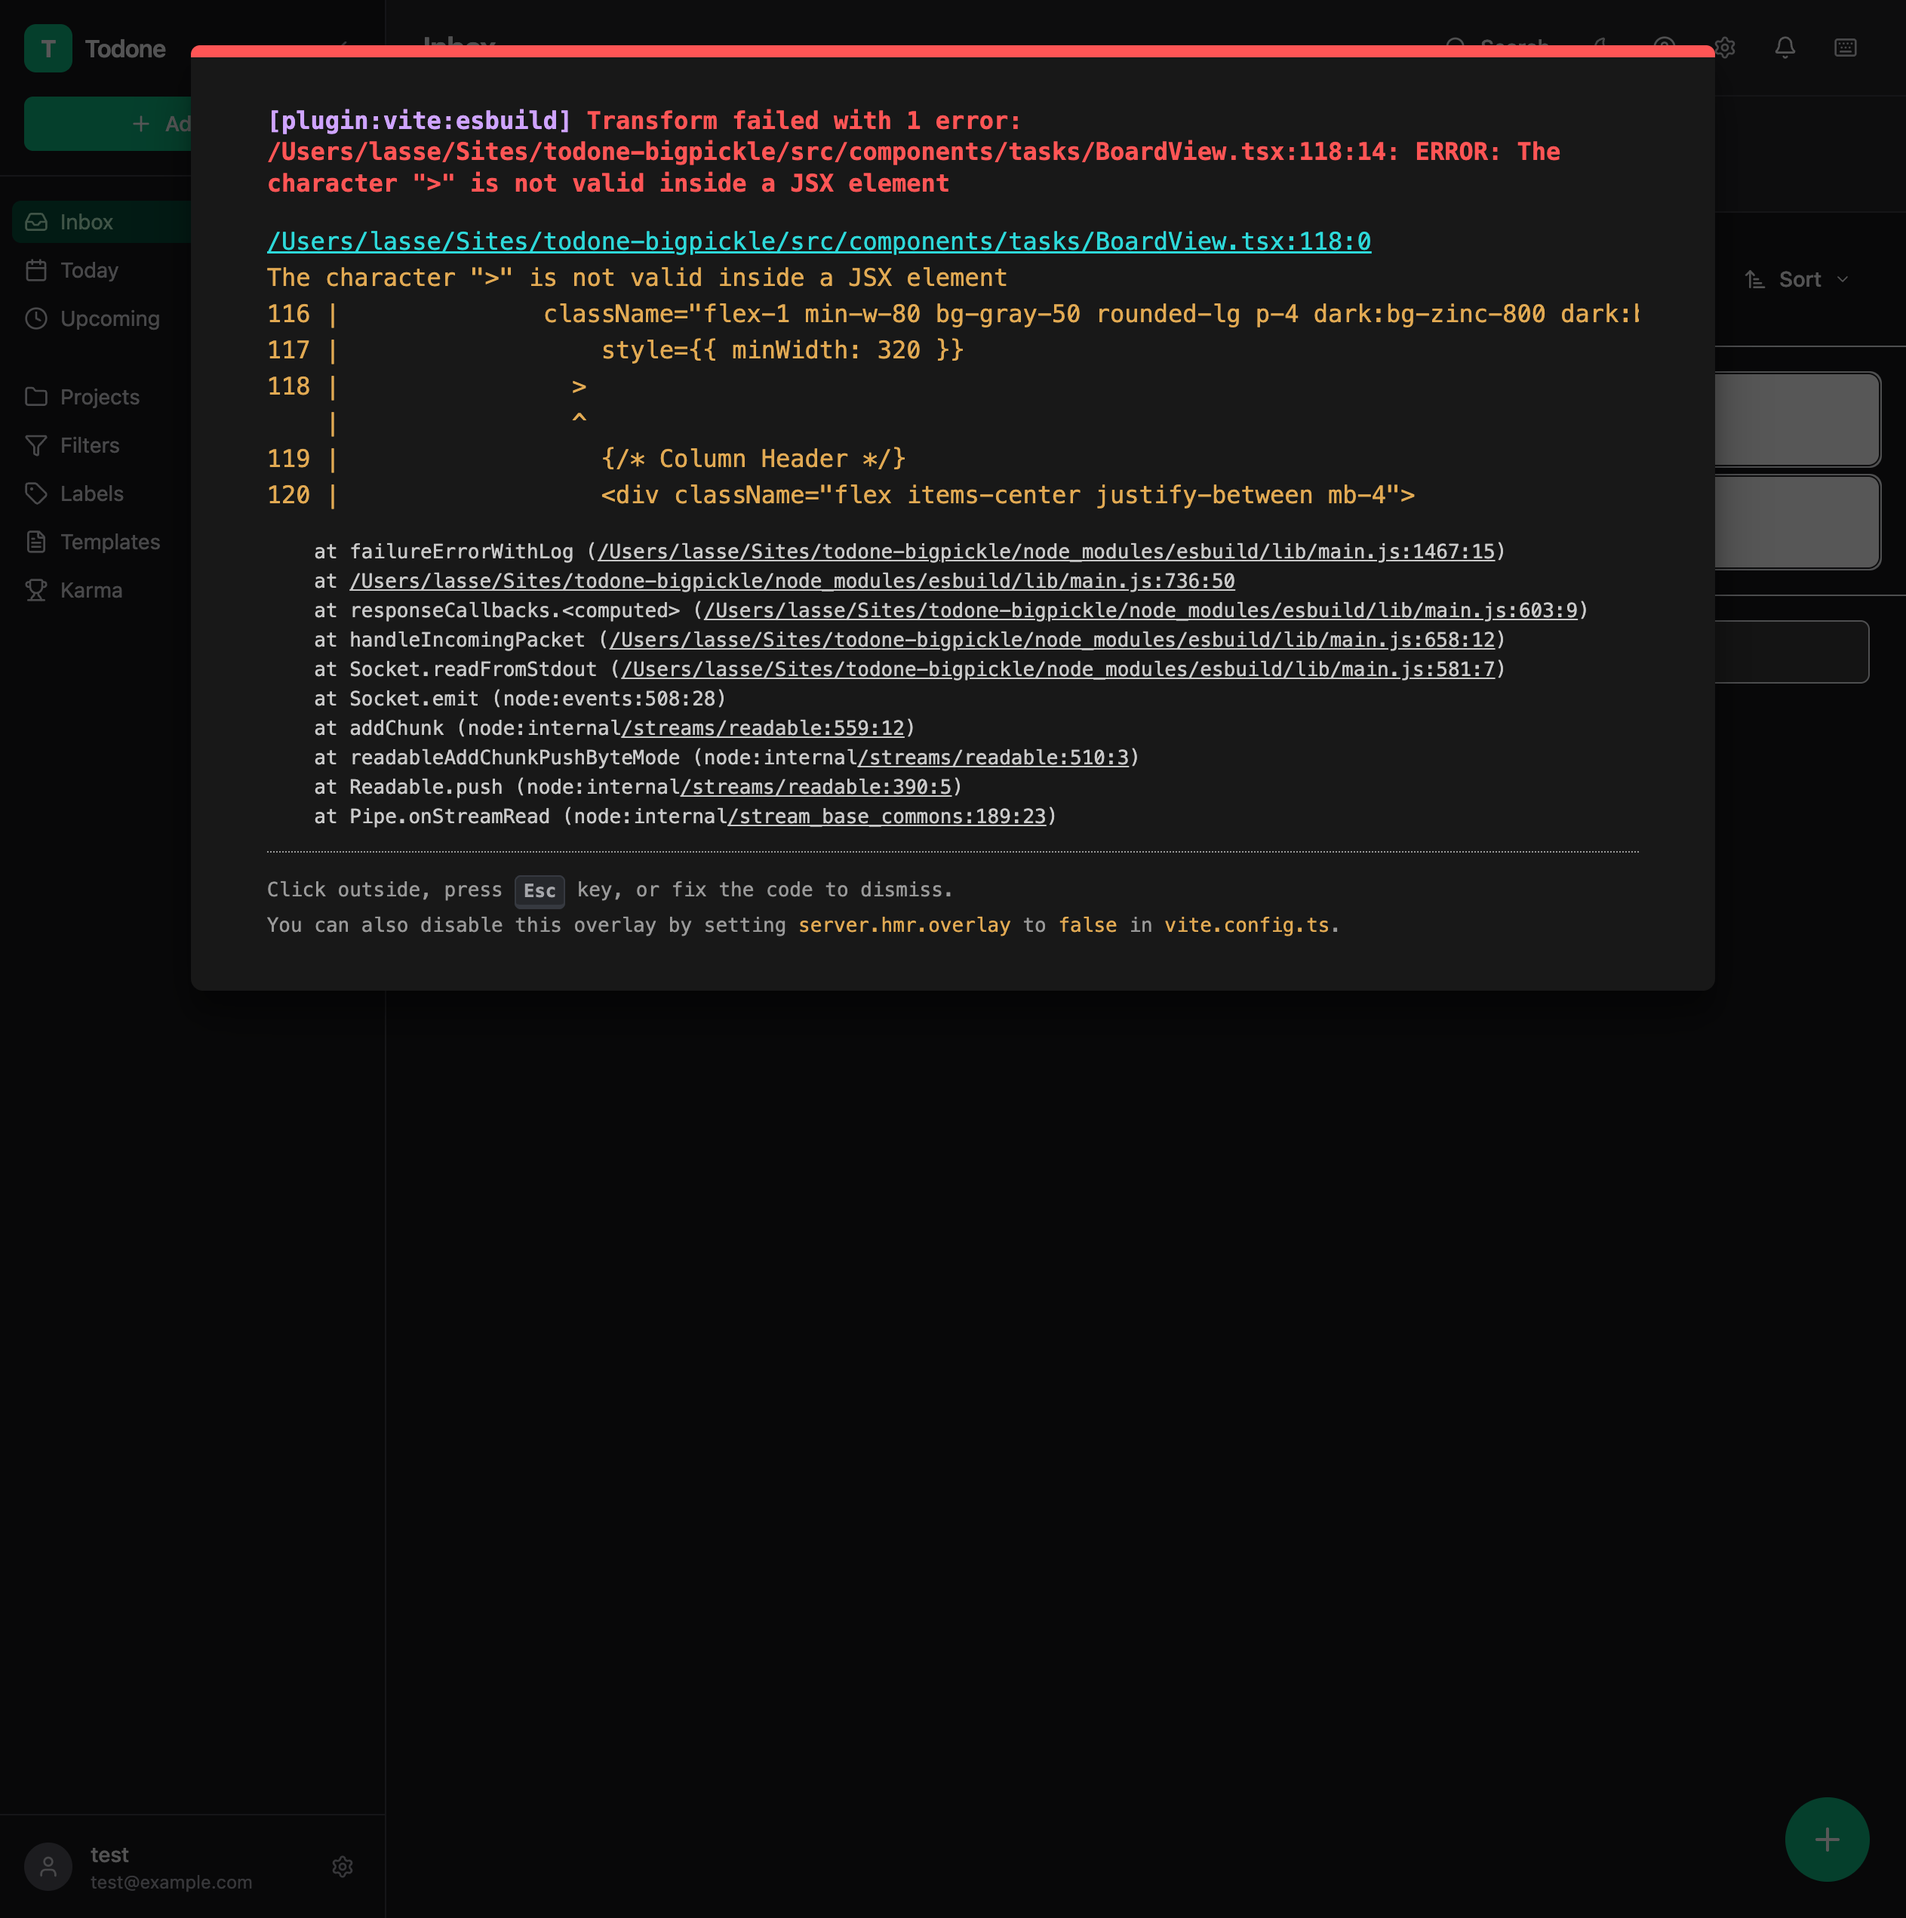
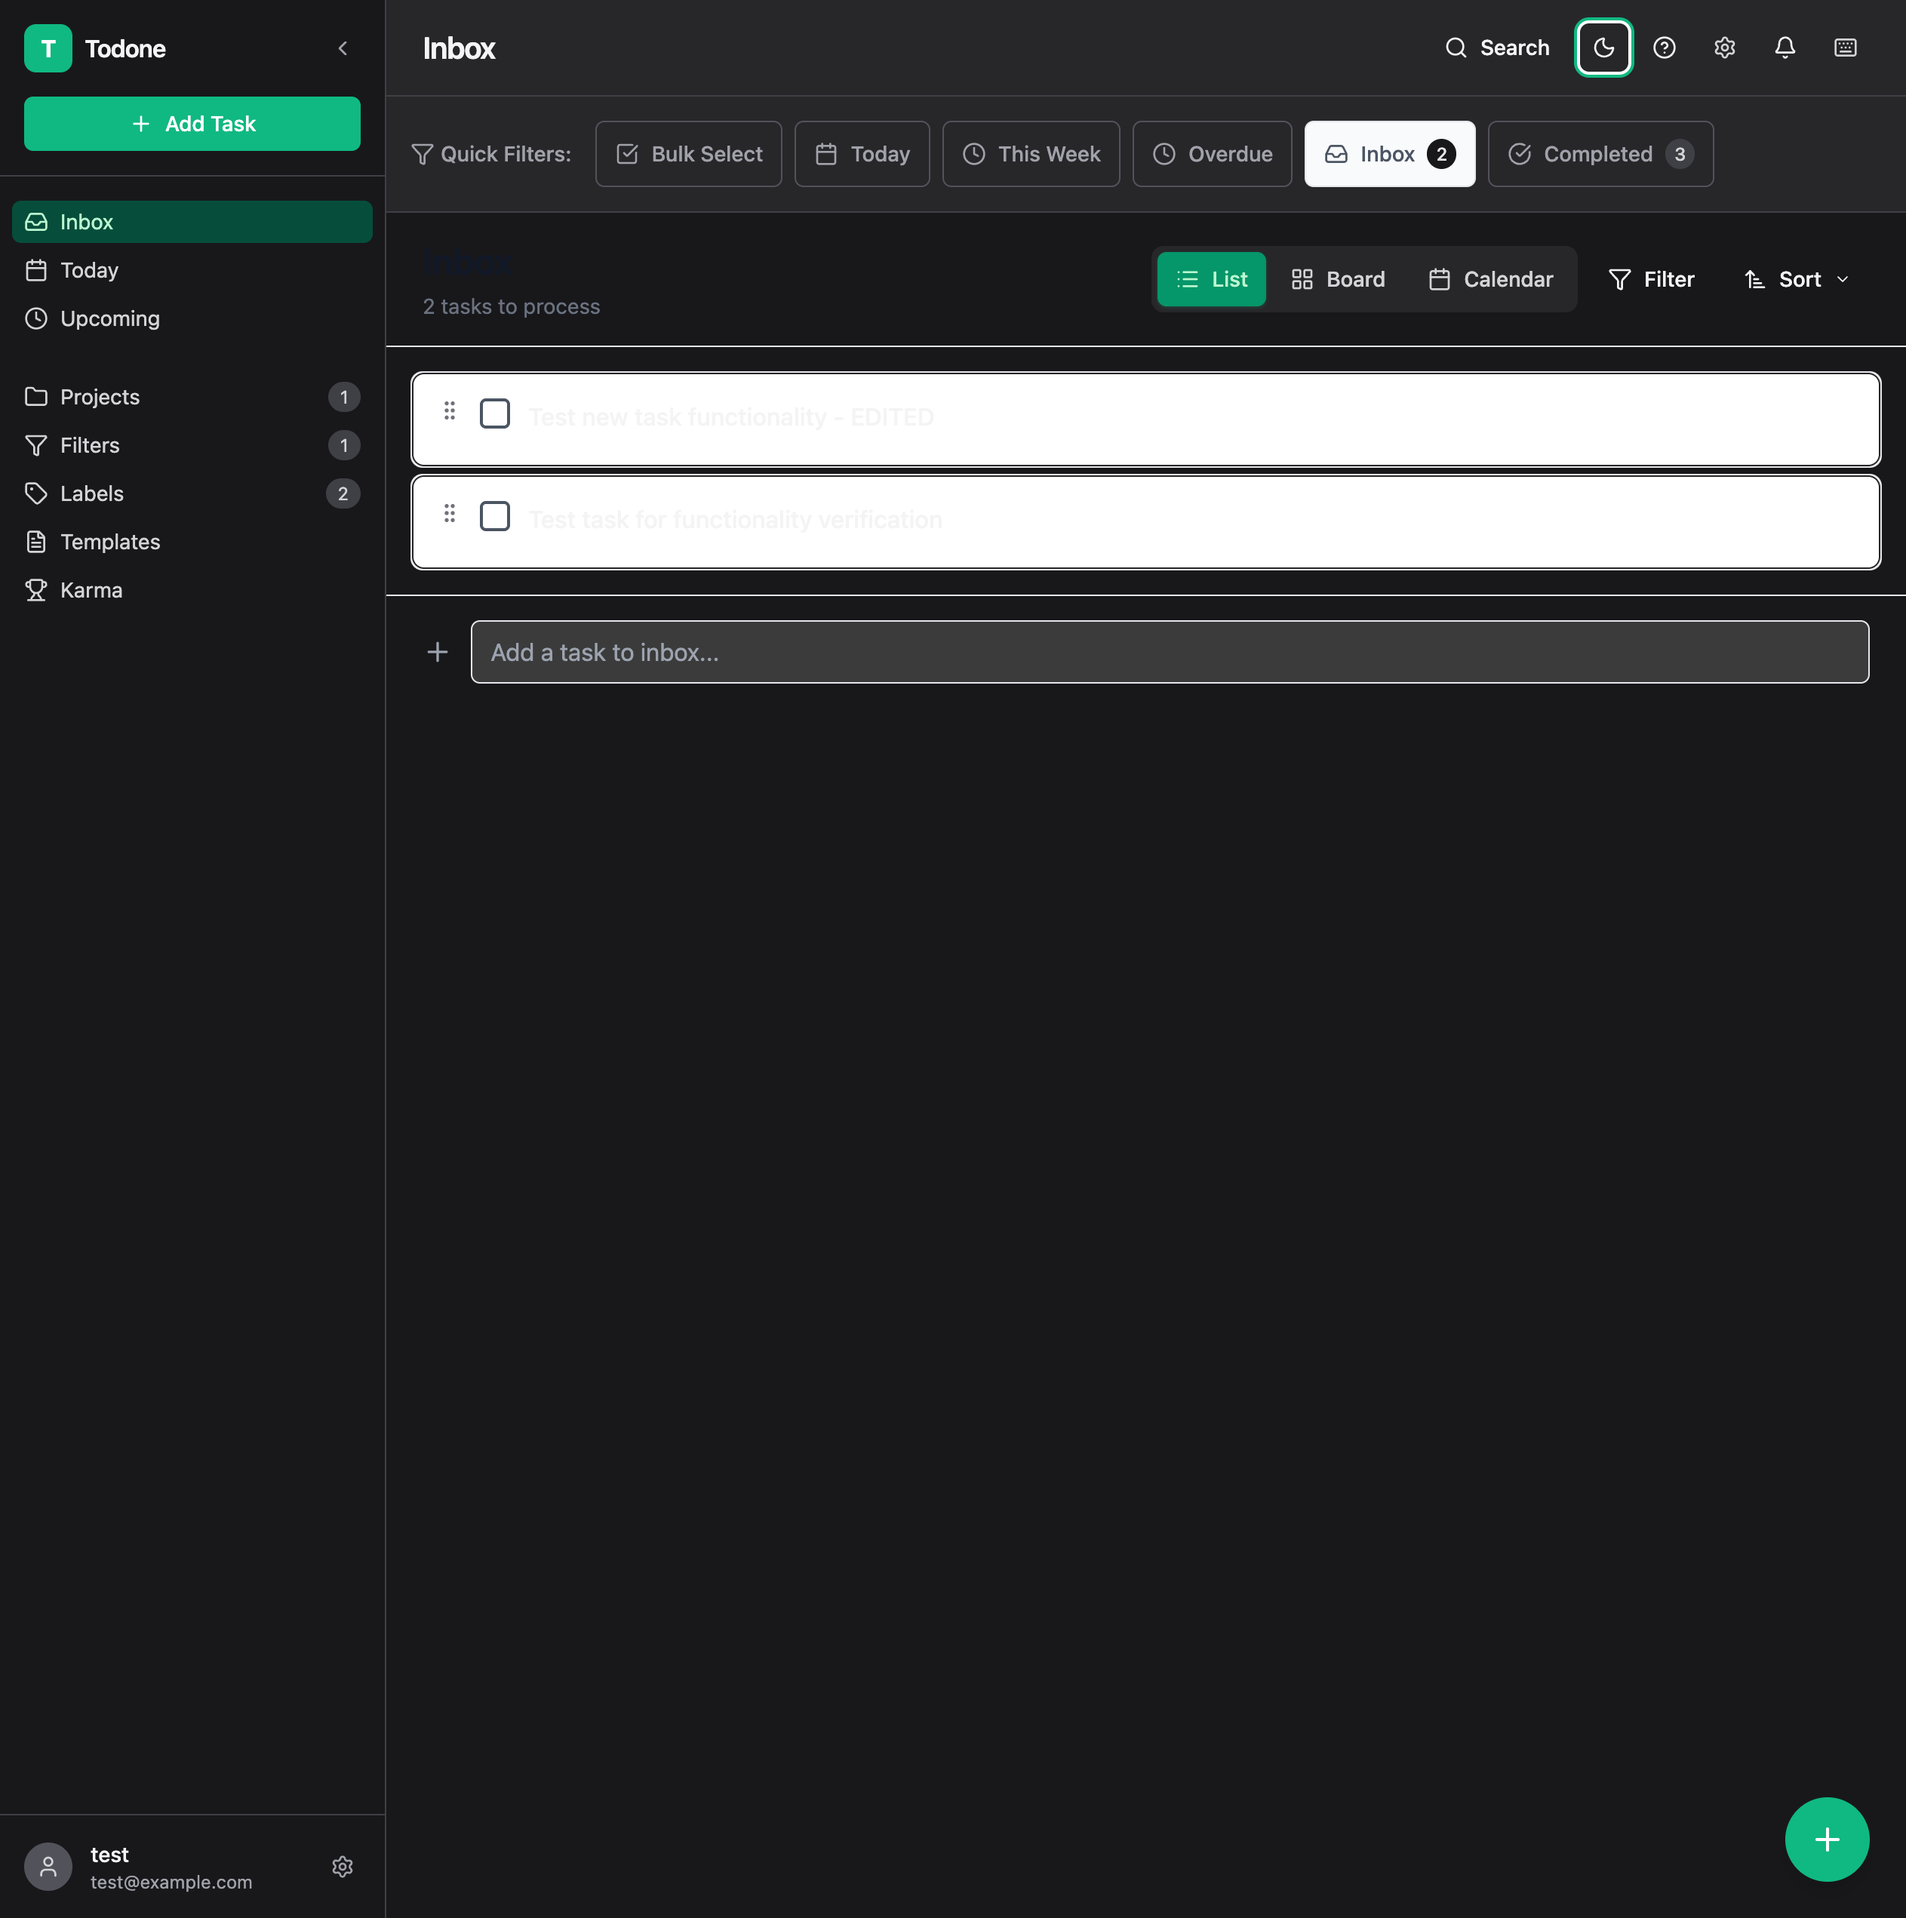
Fix dark mode styling in BoardView

diff --git a/src/components/tasks/BoardView.tsx b/src/components/tasks/BoardView.tsx
@@ -113,7 +113,7 @@ export const BoardView: React.FC<BoardViewProps> = ({
             {columns.map((column) => (
               <div
                 key={column.id}
-                className="flex-1 min-w-80 bg-gray-50 rounded-lg p-4 dark:bg-zinc-800 dark:border-zinc-700">
+                className="flex-1 min-w-80 bg-gray-50 rounded-lg p-4 dark:bg-zinc-800 dark:border-zinc-700"
                 style={{ minWidth: 320 }}
               >
                 {/* Column Header */}
